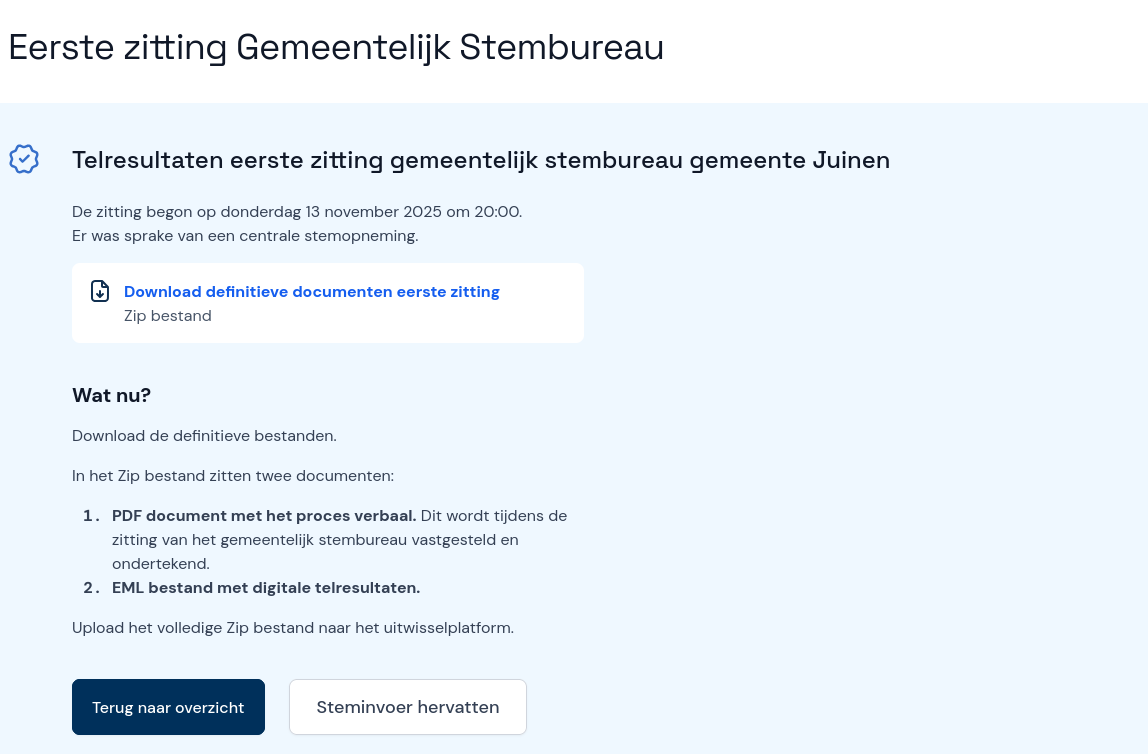
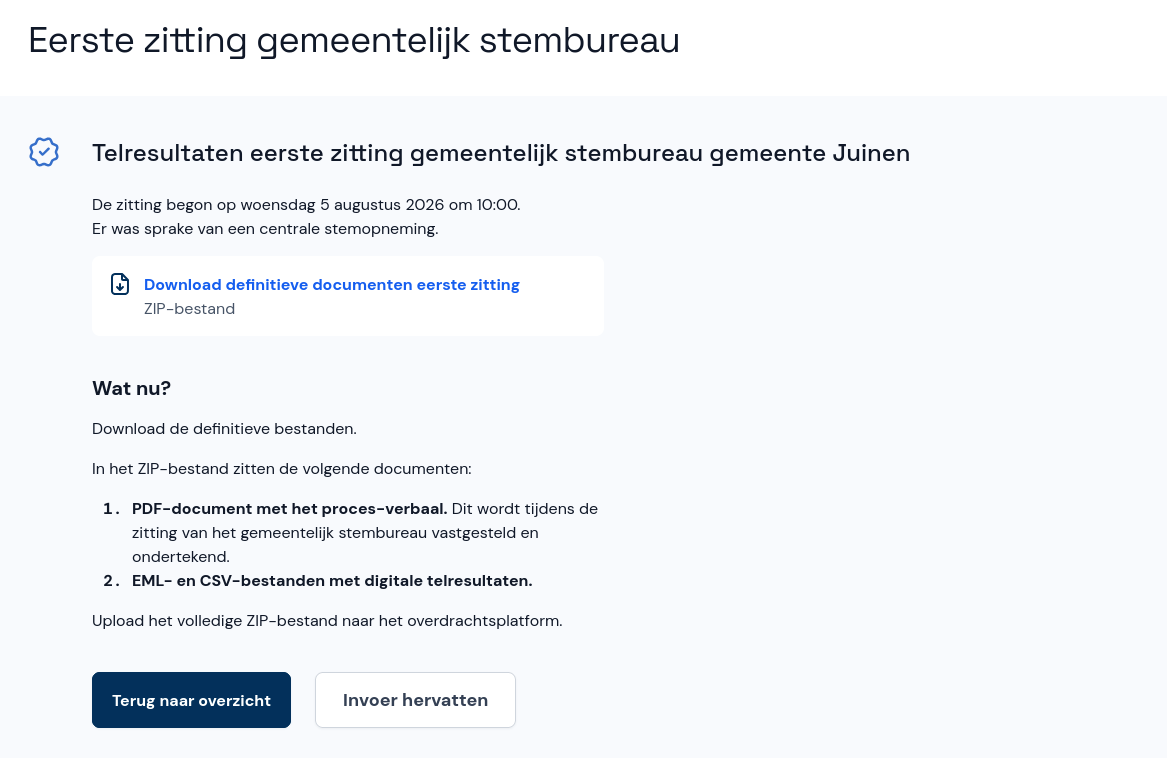
Coordinator GSB
- Afbeeldingen vervangen nav gewijzigde copy
- Teksten op bepaalde plekken gelijkgetrokken met Coördinator CSB
- 'steminvoer' wordt 'invoer'

diff --git a/gebruikersdocumentatie/src/SUMMARY.md b/gebruikersdocumentatie/src/SUMMARY.md
@@ -66,12 +66,12 @@
     - [Gebruikers beheren](./coordinator/zitting-voorbereiden/gebruikers-beheren.md)
     - [Processen-verbaal afdrukken](./coordinator/zitting-voorbereiden/pvs-afdrukken.md)
   - [Zitting starten](./coordinator/zitting-starten/README.md)
-    - [Statusoverzicht steminvoer](./coordinator/zitting-starten/statusoverzicht.md)
+    - [Statusoverzicht invoer](./coordinator/zitting-starten/statusoverzicht.md)
     - [Details van de zitting](./coordinator/zitting-starten/details-zitting.md)
   - [Fouten en waarschuwingen](./coordinator/fouten-waarschuwingen/README.md)
     - [Controleren en corrigeren](./coordinator/fouten-waarschuwingen/controleren-corrigeren.md)
   - [Verschil tussen eerste en tweede invoer](./coordinator/verschil-invoer.md)
-  - [Afronden en proces-verbaal opmaken](./coordinator/afronden-pv.md)
+  - [Zitting afronden en proces-verbaal opmaken](./coordinator/afronden-pv.md)
   - [Nieuwe zitting](./coordinator/nieuwe-zitting/README.md)
     - [Bevindingen en invoerfase](./coordinator/nieuwe-zitting/bevindingen-invoerfase.md)
     - [Nieuwe zitting afronden](./coordinator/nieuwe-zitting/afronden.md)
@@ -84,7 +84,7 @@
   - [Zitting voorbereiden](./coordinator-csb/zitting-voorbereiden/README.md)
     - [Gebruikers beheren](./coordinator-csb/zitting-voorbereiden/gebruikers-beheren.md)
   - [Zitting starten](./coordinator-csb/zitting-starten/README.md)
-    - [Statusoverzicht steminvoer](./coordinator-csb/zitting-starten/statusoverzicht.md)
+    - [Statusoverzicht invoer](./coordinator-csb/zitting-starten/statusoverzicht.md)
     - [Details zitting](./coordinator-csb/zitting-starten/details-zitting.md)
   - [Fouten en waarschuwingen](./coordinator-csb/fouten-waarschuwingen/README.md)
     - [Controleren en corrigeren](./coordinator-csb/fouten-waarschuwingen/controleren-corrigeren.md)

diff --git a/gebruikersdocumentatie/src/coordinator/zitting-voorbereiden/stembureaus-beheren.md b/gebruikersdocumentatie/src/coordinator/zitting-voorbereiden/stembureaus-beheren.md
@@ -1,6 +1,6 @@
 # Stembureaus beheren
 
-Als de beheerder de lijst met stembureaus heeft toegevoegd, is de verkiezing klaar voor steminvoer. Als dit nog niet gebeurd is, heeft de verkiezing de status *Zitting voorbereiden*. De steminvoer kan pas beginnen nadat de stembureaus zijn toegevoegd.
+Als de beheerder de lijst met stembureaus heeft toegevoegd, is de verkiezing klaar voor invoer. Als dit nog niet gebeurd is, heeft de verkiezing de status *Zitting voorbereiden*. De invoer kan pas beginnen nadat de stembureaus zijn toegevoegd.
 
 **Let op: Zorg dat de stembureaus in Abacus overeenkomen met de voor de verkiezingen gepubliceerde lijst. Als er afwijkingen zijn, moeten deze worden opgenomen in het proces-verbaal.**
 
@@ -45,7 +45,7 @@ Je kunt stembureaus ook handmatig toevoegen om ervoor te zorgen dat de stemburea
 
 ![Stembureau opslaan en toevoegen](./img/stembureau-toevoegen.png)
 
-## # Stembureau wijzigen of verwijderen
+## Stembureau wijzigen of verwijderen
 
 - Selecteer het stembureau dat je wil wijzigen of verwijderen.
 - Wijzig het stembureau door de relevante gegevens te veranderen en vervolgens **Wijzigingen opslaan** te selecteren. Selecteer **Annuleren** als je de wijzigingen toch niet wil opslaan.

diff --git a/gebruikersdocumentatie/src/coordinator/zitting-starten/statusoverzicht.md b/gebruikersdocumentatie/src/coordinator/zitting-starten/statusoverzicht.md
@@ -1,7 +1,7 @@
-# Statusoverzicht steminvoer
+# Statusoverzicht invoer
 
-Selecteer in het hoofdmenu onder de naam van de verkiezing **Statusoverzicht steminvoer**. Je kunt ook eerst de verkiezing en daarna **Bekijk voortgang** selecteren.
+Selecteer in het hoofdmenu onder de naam van de verkiezing **Statusoverzicht invoer**. Je kunt ook eerst de verkiezing en daarna **Bekijk voortgang** selecteren.
 
-Op deze pagina zie je in één oogopslag wat de status van de stembureaus is en welke stembureaus nog ingevoerd moeten worden (de werkvoorraad). Hier zie je ook welke invoer speciale aandacht van jou als coördinator nodig heeft vanwege [fouten en/of waarschuwingen](../../spiekbrief/foutcodes/).
+Op deze pagina zie je in één oogopslag wat de status van de invoer is en wat er nog moet worden ingevoerd. Hier zie je ook welke invoer speciale aandacht van jou als coördinator nodig heeft vanwege [fouten en/of waarschuwingen](../../spiekbrief/foutcodes/).
 
-![Statusoverzicht steminvoer](./img/statusoverzicht-steminvoer.png)
+![Statusoverzicht invoer](./img/statusoverzicht-invoer.png)

diff --git a/gebruikersdocumentatie/src/coordinator/zitting-starten/README.md b/gebruikersdocumentatie/src/coordinator/zitting-starten/README.md
@@ -1,5 +1,7 @@
 # Zitting starten
 
-Wanneer de stemmen zijn geteld en de processen-verbaal zijn ingevuld, krijg je ze weer terug en kan de invoer in Abacus beginnen. Abacus heeft de status *Klaar voor steminvoer*. Staat de verkiezing nog op *Zitting voorbereiden*, controleer dan nogmaals of je alle stappen ter voorbereiding van de zitting hebt uitgevoerd.
+De zitting heeft nu de status *Klaar voor invoer*. Klik op de knop **Start invoer** om de zitting te starten. Nu kunnen de invoerders aan de slag.
 
-Geef de processen-verbaal aan je invoerders en laat ze twee keer invoeren door twee verschillende gebruikers. Zodra de eerste invoer is begonnen, verandert de status van de verkiezing in *Steminvoer bezig*.
+![De invoer starten](./img/start-invoer-gsb.png)
+
+Laat alle aantallen twee keer invoeren door twee verschillende invoerders. Zodra de eerste invoer is begonnen, verandert de status van de verkiezing in *Invoer bezig*.

diff --git a/gebruikersdocumentatie/src/coordinator/fouten-waarschuwingen/README.md b/gebruikersdocumentatie/src/coordinator/fouten-waarschuwingen/README.md
@@ -4,8 +4,8 @@ Zowel tijdens als na de invoer kunnen er fouten of waarschuwingen ontstaan.
 
 **Tijdens de invoer** kunnen de invoerders te maken hebben met verschillende fouten of waarschuwingen. Zij moeten dit met jou overleggen om tot een oplossing te komen.
 
-![Voorbeeld van een fout bij de invoerder](./img/invoeren-fouten-waarschuwingen.png)
+![Voorbeeld van een fout bij de invoerder](./img/inv-fouten-waarschuwingen.png)
 
-**Na de invoer** zie je bovenaan in het statusoverzicht van de steminvoer of er fouten of waarschuwingen zijn. Selecteer het stembureau om ze te bekijken en behandelen.
+**Na de invoer** zie je bovenaan in het statusoverzicht van de invoer of er fouten of waarschuwingen zijn. Selecteer het stembureau om ze te bekijken en behandelen.
 
-![Fouten en waarschuwingen na steminvoer](./img/steminvoer-fouten-waarschuwingen.png)
+![Fouten en waarschuwingen na invoer](./img/inv-fouten-ws-coord-gsb.png)

diff --git a/gebruikersdocumentatie/src/coordinator-csb/fouten-waarschuwingen/README.md b/gebruikersdocumentatie/src/coordinator-csb/fouten-waarschuwingen/README.md
@@ -6,6 +6,6 @@ Zowel tijdens als na de invoer kunnen er fouten of waarschuwingen ontstaan.
 
 ![Voorbeeld van een fout en waarschuwingen bij de invoerder](./img/inv-fouten-ws-csb.png)
 
-**Na de invoer** zie je bovenaan in het statusoverzicht van de steminvoer of er fouten of waarschuwingen zijn. Selecteer het stembureau om ze te bekijken en behandelen.
+**Na de invoer** zie je bovenaan in het statusoverzicht van de invoer of er fouten of waarschuwingen zijn. Selecteer het stembureau om ze te bekijken en behandelen.
 
-![Fouten en waarschuwingen na steminvoer](./img/inv-fouten-ws-coord-csb.png)
+![Fouten en waarschuwingen na invoer](./img/inv-fouten-ws-coord-csb.png)

diff --git a/gebruikersdocumentatie/src/coordinator/verschil-invoer.md b/gebruikersdocumentatie/src/coordinator/verschil-invoer.md
@@ -2,6 +2,6 @@
 
 Wanneer een stembureau twee keer is ingevoerd, kan het voorkomen dat er een verschil is tussen de eerste en tweede invoer. Op het statusoverzicht zie je dit bovenaan staan.
 
-![Verschil tussen eerste en tweede invoer](./img/verschil-eerste-tweede-invoer.png)
+![Verschil tussen eerste en tweede invoer](./img/verschil-invoer-gsb.png)
 
 Controleer beide invoeren om na te gaan welke invoer overeenkomt met het proces-verbaal. Selecteer de correcte invoer en vervolgens op **Opslaan** om deze te bewaren. De andere invoer wordt weggegooid en moet opnieuw gedaan worden. Bewaar geen van beide invoeren als ze allebei niet overeenkomen met het proces-verbaal.

diff --git a/gebruikersdocumentatie/src/coordinator-csb/zitting-starten/statusoverzicht.md b/gebruikersdocumentatie/src/coordinator-csb/zitting-starten/statusoverzicht.md
@@ -1,7 +1,7 @@
-# Statusoverzicht steminvoer
+# Statusoverzicht invoer
 
 Selecteer in het hoofdmenu onder de naam van de verkiezing **Statusoverzicht invoer**. Je kunt ook eerst de verkiezing en daarna **Bekijk voortgang** selecteren.
 
 Op deze pagina zie je in één oogopslag wat de status van de invoer is en wat er nog moet worden ingevoerd. Hier zie je ook welke invoer speciale aandacht van jou als coördinator nodig heeft vanwege [fouten en/of waarschuwingen](../../spiekbrief/foutcodes/foutcodes-csb.md).
 
-![Statusoverzicht steminvoer](./img/statusoverzicht-invoer-csb.png)
+![Statusoverzicht invoer](./img/statusoverzicht-invoer-csb.png)

diff --git a/gebruikersdocumentatie/src/coordinator/afronden-pv.md b/gebruikersdocumentatie/src/coordinator/afronden-pv.md
@@ -1,4 +1,4 @@
-# Afronden en proces-verbaal opmaken
+# Zitting afronden en proces-verbaal opmaken
 
 Wanneer de resultaten van alle stembureaus in jouw gemeente twee keer correct zijn ingevoerd, kun je de uitslag definitief maken en het proces-verbaal opmaken.
 
@@ -11,4 +11,4 @@ Wanneer de resultaten van alle stembureaus in jouw gemeente twee keer correct zi
 ![Afronden en documenten downloaden](./img/telresultaten-downloaden.png)
 
 - Selecteer **Terug naar overzicht** om de invoer af te ronden.
-- Als je toch nog iets wil wijzigen selecteer je **Steminvoer hervatten**.
+- Als je toch nog iets wil wijzigen selecteer je **invoer hervatten**.

diff --git a/gebruikersdocumentatie/src/coordinator/activiteitenlog.md b/gebruikersdocumentatie/src/coordinator/activiteitenlog.md
@@ -3,3 +3,9 @@
 In het activiteitenlog kun je zien welke gebruikers zijn ingelogd en uitgelogd en welke activiteiten ze hebben uitgevoerd. Dit kan handig zijn als je wil nagaan wat er met een bepaalde invoer gebeurd is.
 
 ![Activiteitenlog](./img/activiteitenlog.png)
+
+## Filteren
+
+Omdat het activiteitenlog groot en moeilijk doorzoekbaar kan zijn, kun je filters gebruiken. Klik op **Filteren** om het filter te openen. Je kunt het log filteren op datum/tijd, type, gebruiker en gebeurtenis.
+
+![Het activiteitenlog filteren](./img/activiteitenlog-filteren.png)

diff --git a/gebruikersdocumentatie/src/coordinator-csb/zitting-starten/README.md b/gebruikersdocumentatie/src/coordinator-csb/zitting-starten/README.md
@@ -4,4 +4,4 @@ De zitting heeft nu de status *Klaar voor invoer*. Klik op de knop **Start invoe
 
 ![De invoer starten](./img/start-invoer-csb.png)
 
-Laat alle aantallen twee keer invoeren door twee verschillende invoerders. Zodra de eerste invoer is begonnen, verandert de status van de verkiezing in *Steminvoer bezig*.
+Laat alle aantallen twee keer invoeren door twee verschillende invoerders. Zodra de eerste invoer is begonnen, verandert de status van de verkiezing in *Invoer bezig*.

diff --git a/gebruikersdocumentatie/src/coordinator-csb/inloggen-account.md b/gebruikersdocumentatie/src/coordinator-csb/inloggen-account.md
@@ -4,4 +4,4 @@ Je krijgt inloginstructies van de beheerder. Vul de gegevens in op de inlogpagin
 
 Wanneer je voor de eerste keer inlogt, stel je je account eerst in voor gebruik. Voer je naam in als er nog geen naam staat, of wijzig je naam als die onjuist is. Kies vervolgens een nieuw wachtwoord en vul dit twee keer in.
 
-![Account instellen](./img/account-instellen-coord-csb.png)
+![Account instellen](./img/account-instellen-coord.png)
